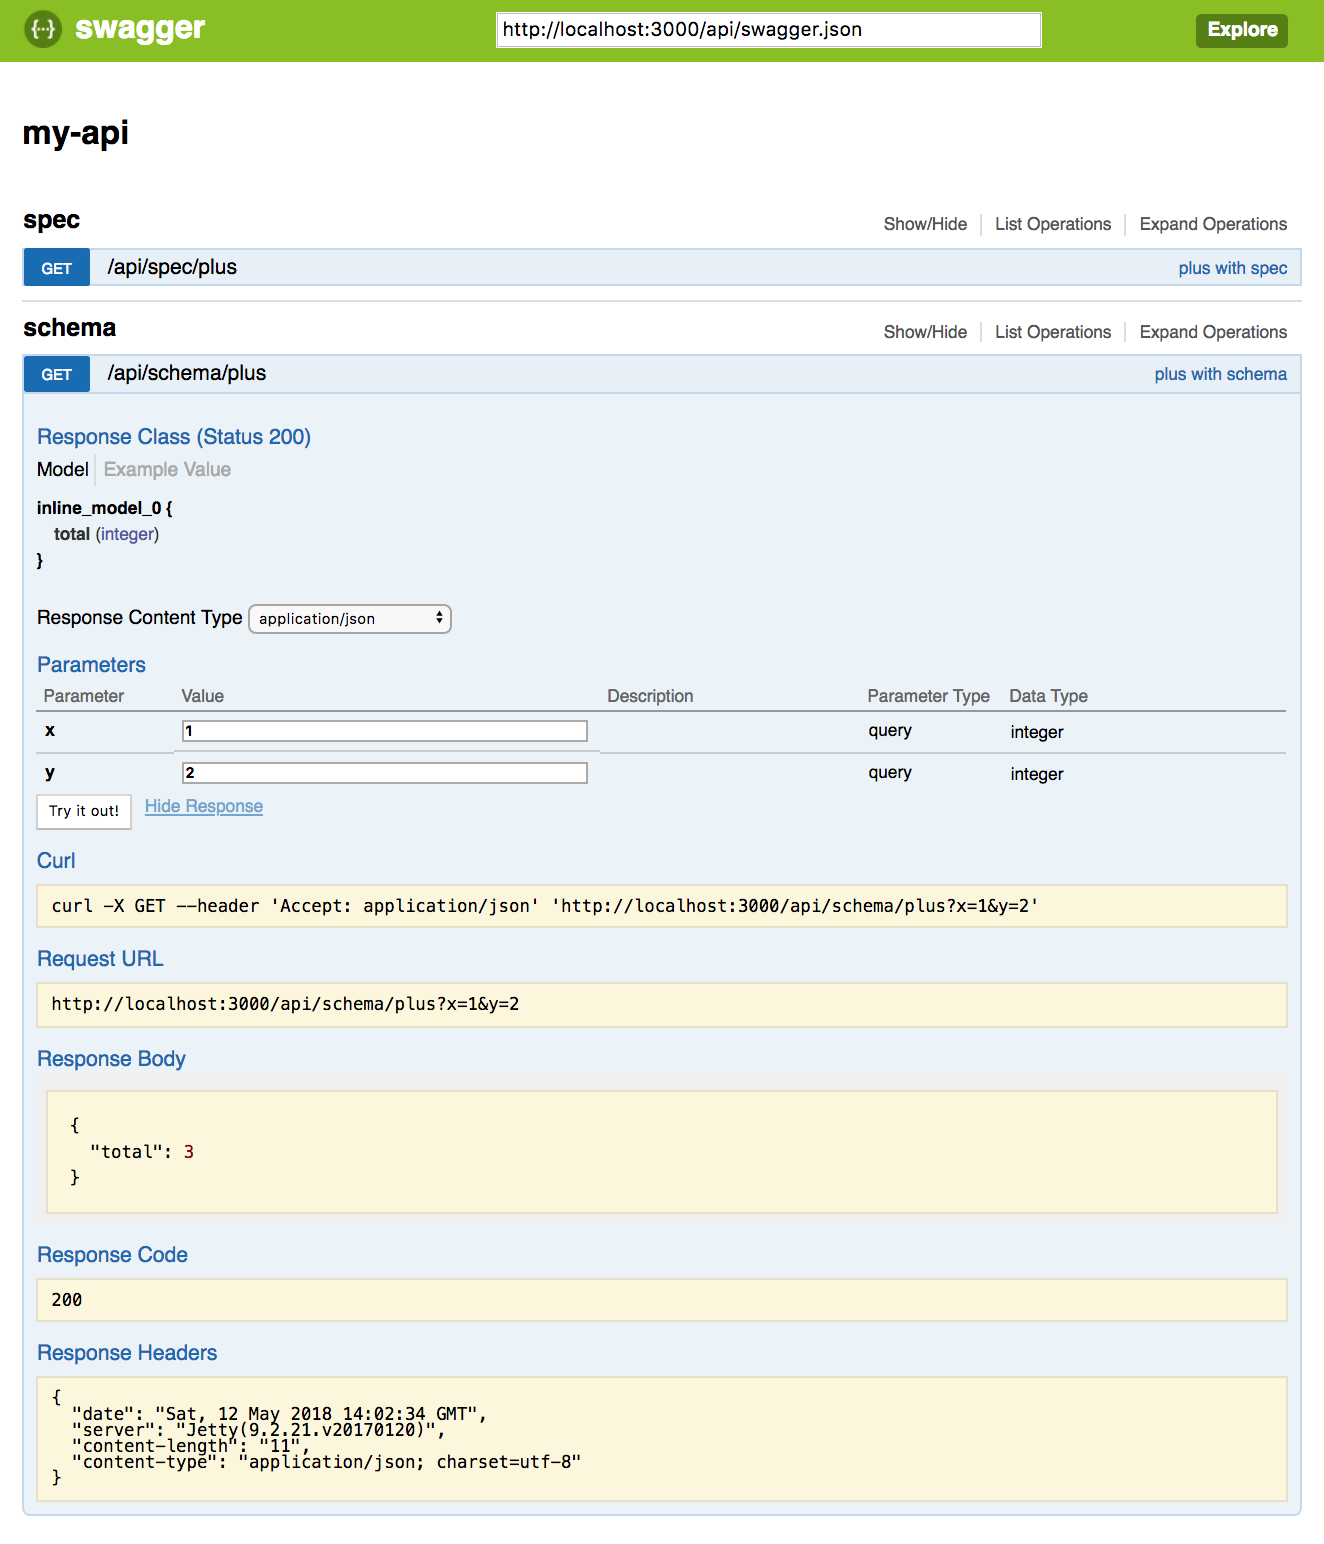
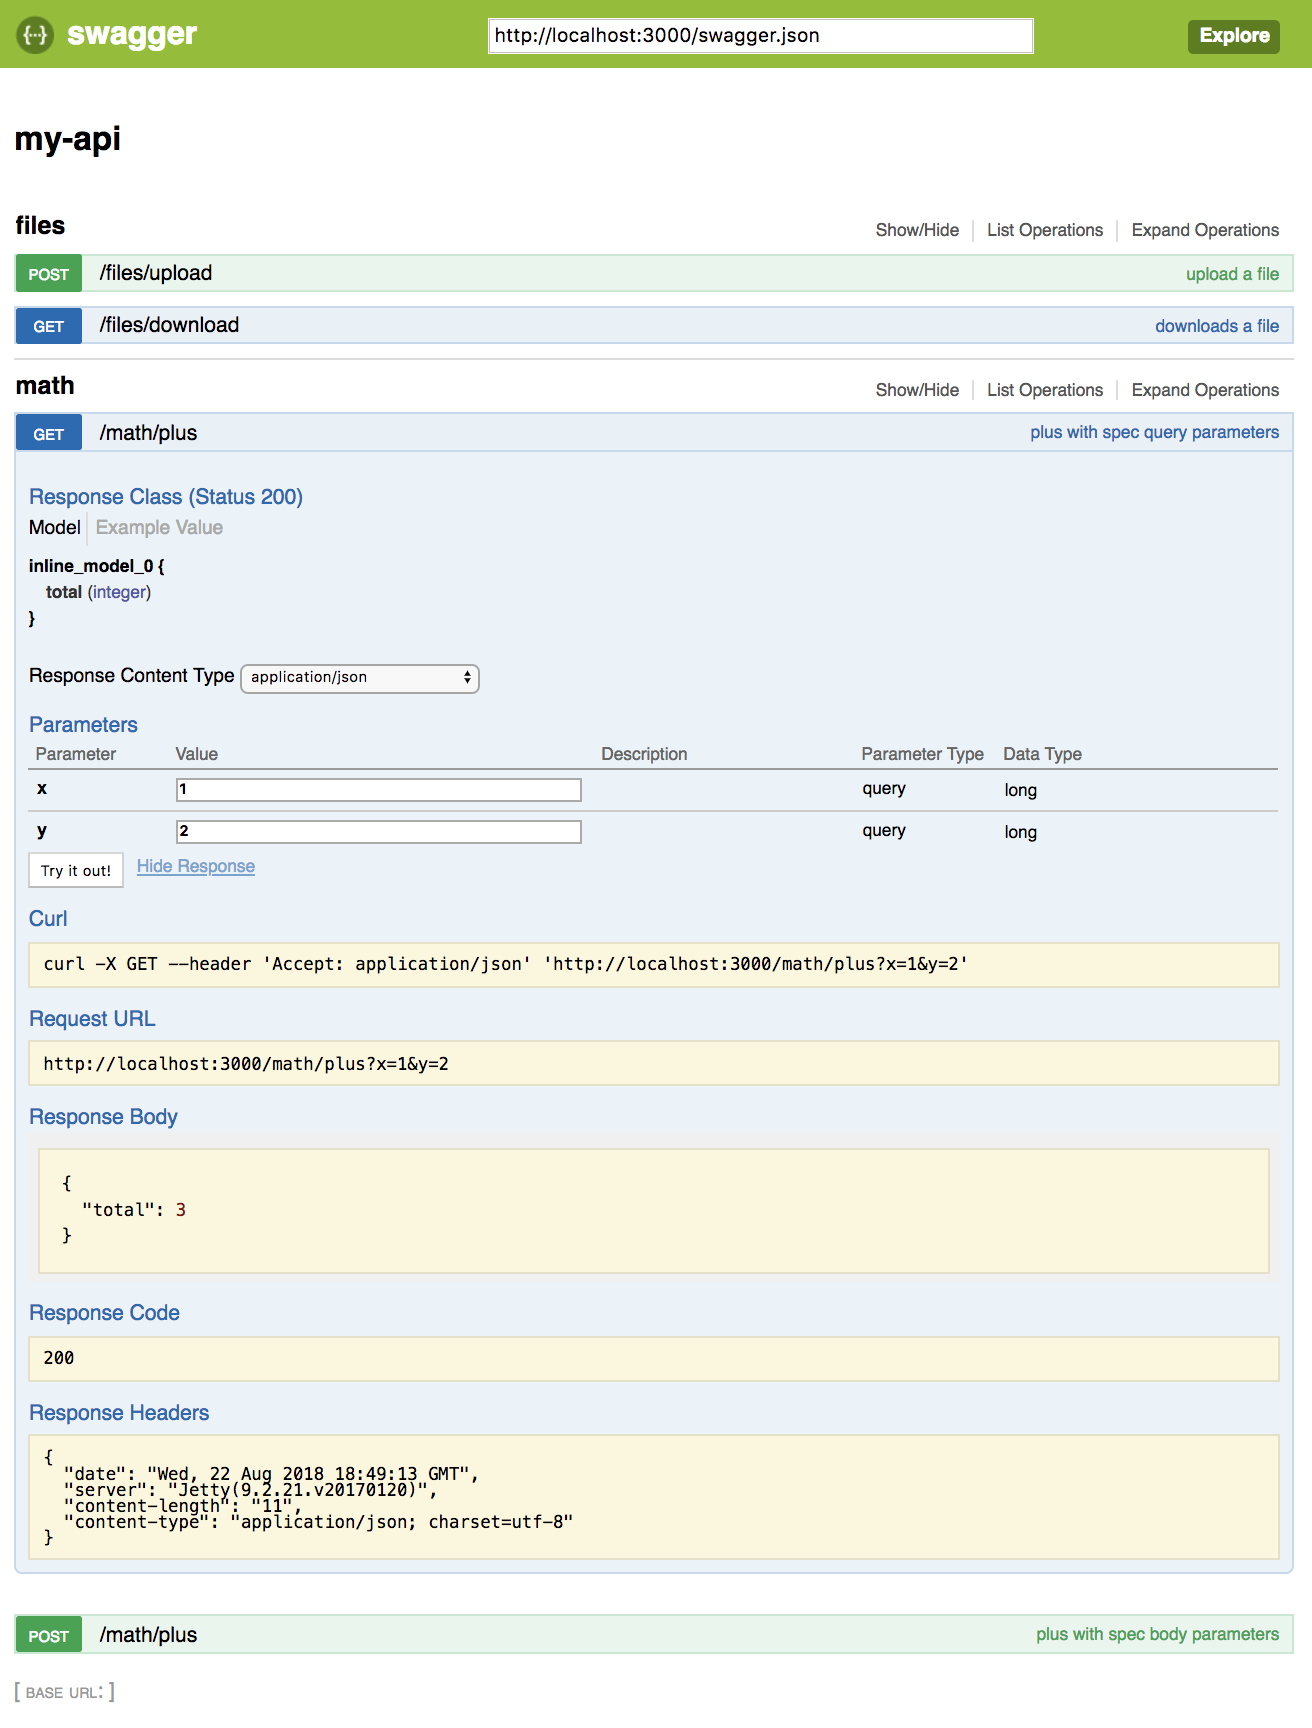
better docs

diff --git a/doc/ring/swagger.md b/doc/ring/swagger.md
@@ -108,80 +108,95 @@ Swagger-ui:
 
 ### More complete example
 
-* `clojure.spec` and `Schema` coercion
-* swagger data (`:tags`, `:produces`, `:consumes`)
-* swagger-spec served from  `"/api/swagger.json"`
+* `clojure.spec` coercion
+* swagger data (`:tags`, `:produces`, `:summary`)
+* swagger-spec served from  `"/swagger.json"`
 * swagger-ui mounted to `"/"`
-* [Muuntaja](https://github.com/metosin/muuntaja) for request & response formatting
-* `wrap-params` to capture query & path parameters
+* set of middleware for content negotiation, exceptions, multipart etc.
 * missed routes are handled by `create-default-handler`
 * served via [ring-jetty](https://github.com/ring-clojure/ring/tree/master/ring-jetty-adapter)
 
 Whole example project is in [`/examples/ring-swagger`](https://github.com/metosin/reitit/tree/master/examples/ring-swagger).
 
 ```clj
-(require '[reitit.ring :as ring]
-(require '[reitit.swagger :as swagger]
-(require '[reitit.swagger-ui :as swagger-ui]
-;; coercion
-(require '[reitit.ring.coercion :as rrc]
-(require '[reitit.coercion.spec :as spec]
-(require '[reitit.coercion.schema :as schema]
-(require '[schema.core :refer [Int]]
-;; web server
-(require '[ring.adapter.jetty :as jetty]
-(require '[ring.middleware.params]
-(require '[muuntaja.middleware]))
+(ns example.server
+  (:require [reitit.ring :as ring]
+            [reitit.swagger :as swagger]
+            [reitit.swagger-ui :as swagger-ui]
+            [reitit.ring.coercion :as coercion]
+            [reitit.coercion.spec]
+            [reitit.ring.middleware.muuntaja :as muuntaja]
+            [reitit.ring.middleware.exception :as exception]
+            [reitit.ring.middleware.multipart :as multipart]
+            [ring.middleware.params :as params]
+            [ring.adapter.jetty :as jetty]
+            [muuntaja.core :as m]
+            [clojure.java.io :as io]))
 
 (def app
   (ring/ring-handler
     (ring/router
-      ["/api"
-      
-       ["/swagger.json"
+      [["/swagger.json"
         {:get {:no-doc true
                :swagger {:info {:title "my-api"}}
                :handler (swagger/create-swagger-handler)}}]
 
-       ["/spec"
-        {:coercion spec/coercion
-         :swagger {:tags ["spec"]}}
+       ["/files"
+        {:swagger {:tags ["files"]}}
+
+        ["/upload"
+         {:post {:summary "upload a file"
+                 :parameters {:multipart {:file multipart/temp-file-part}}
+                 :responses {200 {:body {:file multipart/temp-file-part}}}
+                 :handler (fn [{{{:keys [file]} :multipart} :parameters}]
+                            {:status 200
+                             :body {:file file}})}}]
+
+        ["/download"
+         {:get {:summary "downloads a file"
+                :swagger {:produces ["image/png"]}
+                :handler (fn [_]
+                           {:status 200
+                            :headers {"Content-Type" "image/png"}
+                            :body (io/input-stream (io/resource "reitit.png"))})}}]]
+
+       ["/math"
+        {:swagger {:tags ["math"]}}
 
         ["/plus"
-         {:get {:summary "plus with spec"
+         {:get {:summary "plus with spec query parameters"
                 :parameters {:query {:x int?, :y int?}}
                 :responses {200 {:body {:total int?}}}
                 :handler (fn [{{{:keys [x y]} :query} :parameters}]
                            {:status 200
-                            :body {:total (+ x y)}})}}]]
+                            :body {:total (+ x y)}})}
+          :post {:summary "plus with spec body parameters"
+                 :parameters {:body {:x int?, :y int?}}
+                 :responses {200 {:body {:total int?}}}
+                 :handler (fn [{{{:keys [x y]} :body} :parameters}]
+                            {:status 200
+                             :body {:total (+ x y)}})}}]]]
 
-       ["/schema"
-        {:coercion schema/coercion
-         :swagger {:tags ["schema"]}}
-
-        ["/plus"
-         {:get {:summary "plus with schema"
-                :parameters {:query {:x Int, :y Int}}
-                :responses {200 {:body {:total Int}}}
-                :handler (fn [{{{:keys [x y]} :query} :parameters}]
-                           {:status 200
-                            :body {:total (+ x y)}})}}]]]
-
-      {:data {:middleware [ring.middleware.params/wrap-params
-                           muuntaja.middleware/wrap-format
-                           swagger/swagger-feature
-                           rrc/coerce-exceptions-middleware
-                           rrc/coerce-request-middleware
-                           rrc/coerce-response-middleware]
-              :swagger {:produces #{"application/json"
-                                    "application/edn"
-                                    "application/transit+json"}
-                        :consumes #{"application/json"
-                                    "application/edn"
-                                    "application/transit+json"}}}})
+      {:data {:coercion reitit.coercion.spec/coercion
+              :muuntaja m/instance
+              :middleware [;; query-params & form-params
+                           params/wrap-params
+                           ;; content-negotiation
+                           muuntaja/format-negotiate-middleware
+                           ;; encoding response body
+                           muuntaja/format-response-middleware
+                           ;; exception handling
+                           exception/exception-middleware
+                           ;; decoding request body
+                           muuntaja/format-request-middleware
+                           ;; coercing response bodys
+                           coercion/coerce-response-middleware
+                           ;; coercing request parameters
+                           coercion/coerce-request-middleware
+                           ;; multipart
+                           multipart/multipart-middleware]}})
     (ring/routes
-      (swagger-ui/create-swagger-ui-handler
-        {:path "/", :url "/api/swagger.json"})
+      (swagger-ui/create-swagger-ui-handler {:path "/"})
       (ring/create-default-handler))))
 
 (defn start []
@@ -242,7 +257,6 @@ Example with:
 
 ### TODO
 
-* create a data-driven version of [Muuntaja](https://github.com/metosin/muuntaja) that integrates into `:produces` and `:consumes`
 * ClojureScript
   * example for [Macchiato](https://github.com/macchiato-framework)
   * body formatting

diff --git a/doc/ring/data_driven_middleware.md b/doc/ring/data_driven_middleware.md
@@ -88,49 +88,8 @@ All the middleware are applied correctly:
 
 Middleware can be optimized against an endpoint using [middleware compilation](compiling_middleware.md).
 
-## Transforming the middleware chain
-
-There is an extra option in ring-router (actually, in the undelaying middleware-router): `:reitit.middleware/transform` to transform the middleware chain per endpoint. It sees the vector of compiled middleware and should return a new vector of middleware.
-
-#### Adding debug middleware between all other middleware
-
-```clj
-(def app
-  (ring/ring-handler
-    (ring/router
-      ["/api" {:middleware [[wrap 1] [wrap2 2]]}
-       ["/ping" {:get {:middleware [[wrap3 3]]
-                       :handler handler}}]]
-      {::middleware/transform #(interleave % (repeat [wrap :debug]))})))
-```
-
-```clj
-(app {:request-method :get, :uri "/api/ping"})
-; {:status 200, :body [1 :debug 2 :debug 3 :debug :handler]}
-```
-
-#### Reversing the middleware chain
-
-```clj
-(def app
-  (ring/ring-handler
-    (ring/router
-      ["/api" {:middleware [[wrap 1] [wrap2 2]]}
-       ["/ping" {:get {:middleware [[wrap3 3]]
-                       :handler handler}}]]
-      {::middleware/transform reverse)})))
-```
-
-```clj
-(app {:request-method :get, :uri "/api/ping"})
-; {:status 200, :body [3 2 1 :handler]}
-```
-
 ## Ideas for the future
 
-* Re-package all useful middleware into (optimized) data-driven Middleware
-   * just package or a new community-repo with rehosting stuff?
-* Support `Keyword` expansion into Middleware, enabling external Middleware Registries (duct/integrant/macchiato -style)
 * Support Middleware dependency resolution with new keys `:requires` and `:provides`. Values are set of top-level keys of the request. e.g.
    * `InjectUserIntoRequestMiddleware` requires `#{:session}` and provides `#{:user}`
    * `AuthorizationMiddleware` requires `#{:user}`

diff --git a/doc/ring/transforming_middleware_chain.md b/doc/ring/transforming_middleware_chain.md
@@ -1,0 +1,37 @@
+# Transformation Middleware Chain
+
+There is an extra option in ring-router (actually, in the underlying middleware-router): `:reitit.middleware/transform` to transform the middleware chain per endpoint. It gets the vector of compiled middleware and should return a new vector of middleware.
+
+## Adding debug middleware between all other middleware
+
+```clj
+(def app
+  (ring/ring-handler
+    (ring/router
+      ["/api" {:middleware [[wrap 1] [wrap2 2]]}
+       ["/ping" {:get {:middleware [[wrap3 3]]
+                       :handler handler}}]]
+      {::middleware/transform #(interleave % (repeat [wrap :debug]))})))
+```
+
+```clj
+(app {:request-method :get, :uri "/api/ping"})
+; {:status 200, :body [1 :debug 2 :debug 3 :debug :handler]}
+```
+
+## Reversing the middleware chain
+
+```clj
+(def app
+  (ring/ring-handler
+    (ring/router
+      ["/api" {:middleware [[wrap 1] [wrap2 2]]}
+       ["/ping" {:get {:middleware [[wrap3 3]]
+                       :handler handler}}]]
+      {::middleware/transform reverse)})))
+```
+
+```clj
+(app {:request-method :get, :uri "/api/ping"})
+; {:status 200, :body [3 2 1 :handler]}
+```

diff --git a/doc/SUMMARY.md b/doc/SUMMARY.md
@@ -27,6 +27,7 @@
     * [Static Resources](ring/static.md)
     * [Dynamic Extensions](ring/dynamic_extensions.md)
     * [Data-driven Middleware](ring/data_driven_middleware.md)
+    * [Transformations Middleware Chain](ring/transformating_middleware_chain.md)
     * [Middleware Registry](ring/middleware_registry.md)
     * [Default Middleware](ring/default_middleware.md)
     * [Pluggable Coercion](ring/coercion.md)

diff --git a/doc/ring/README.md b/doc/ring/README.md
@@ -6,6 +6,7 @@
 * [Static Resources](static.md)
 * [Dynamic Extensions](dynamic_extensions.md)
 * [Data-driven Middleware](data_driven_middleware.md)
+* [Transformations Middleware Chain](transformating_middleware_chain.md)
 * [Middleware Registry](middleware_registry.md)
 * [Default Middleware](default_middleware.md)
 * [Pluggable Coercion](coercion.md)
